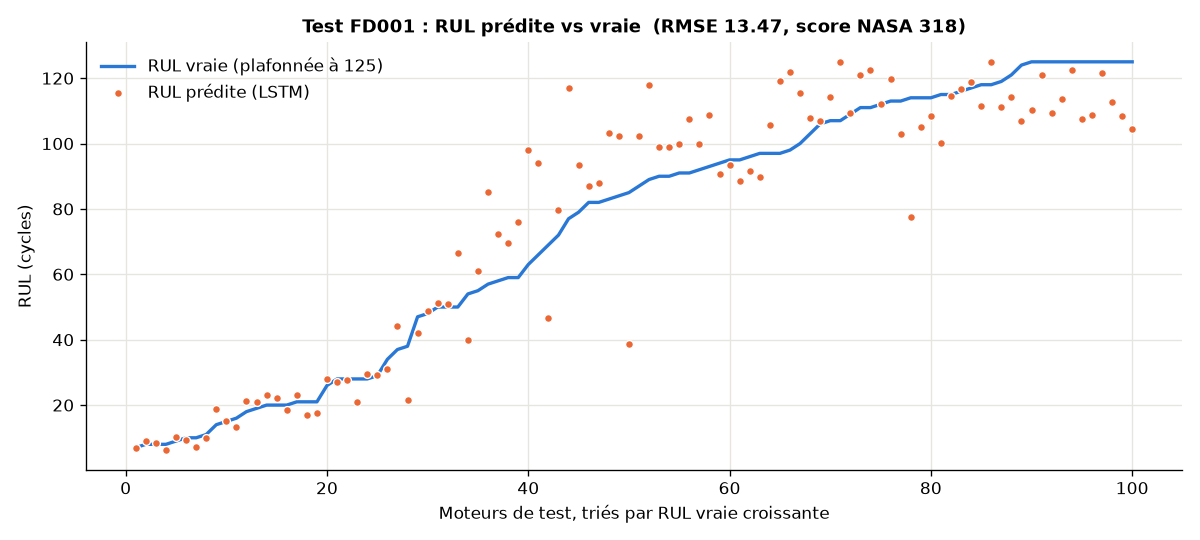
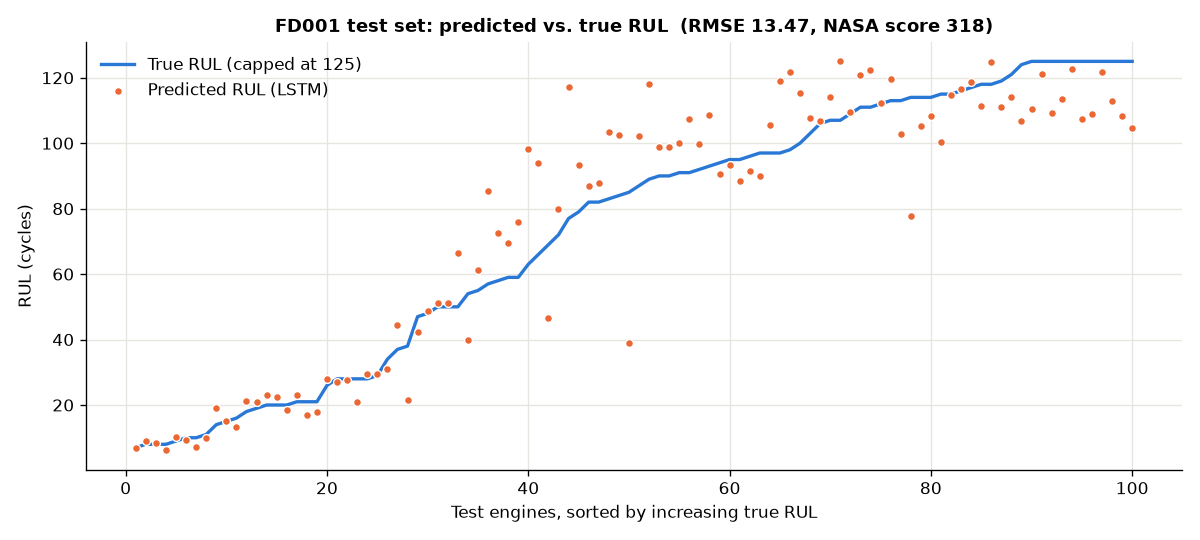
feat(dashboard): English UI and regenerated visuals

diff --git a/src/dashboard/app.py b/src/dashboard/app.py
@@ -29,16 +29,16 @@ ACCENT = "#2DD4BF"
 
 # Seuils de risque (en cycles restants) et couleurs associées, utilisés partout
 CRITICAL_RUL, ALERT_RUL = 30, 60
-STATUS_COLORS = {"Critique": "#EF4444", "Alerte": "#F59E0B", "Sain": "#10B981"}
+STATUS_COLORS = {"Critical": "#EF4444", "Warning": "#F59E0B", "Healthy": "#10B981"}
 
 # Capteurs affichés dans la vue moteur (nom C-MAPSS + grandeur physique)
 SENSOR_LABELS = {
-    "sensor_2": "T24 · temp. sortie LPC (°R)",
-    "sensor_4": "T50 · temp. sortie LPT (°R)",
-    "sensor_7": "P30 · pression sortie HPC (psia)",
-    "sensor_11": "Ps30 · pression statique HPC (psia)",
-    "sensor_12": "phi · débit carburant / Ps30",
-    "sensor_15": "BPR · taux de dilution",
+    "sensor_2": "T24 · LPC outlet temp. (°R)",
+    "sensor_4": "T50 · LPT outlet temp. (°R)",
+    "sensor_7": "P30 · HPC outlet pressure (psia)",
+    "sensor_11": "Ps30 · HPC static pressure (psia)",
+    "sensor_12": "phi · fuel flow / Ps30",
+    "sensor_15": "BPR · bypass ratio",
 }
 
 CSS = f"""
@@ -142,10 +142,10 @@ table.fleet tr:hover td {{ background: #20273A; }}
 def risk_status(rul: float) -> str:
     """Statut de risque à partir de la RUL prédite (seuils exclusifs)."""
     if rul < CRITICAL_RUL:
-        return "Critique"
+        return "Critical"
     if rul < ALERT_RUL:
-        return "Alerte"
-    return "Sain"
+        return "Warning"
+    return "Healthy"
 
 
 @st.cache_resource
@@ -210,29 +210,29 @@ def render_topbar(fleet: pd.DataFrame) -> None:
     """Barre d'en-tête : titre à gauche, pastille d'état de la flotte à droite."""
     counts = fleet["status"].value_counts()
     items = [
-        ("#64748B", f"{len(fleet)} moteurs"),
-        (STATUS_COLORS["Critique"], f"{counts.get('Critique', 0)} critiques"),
-        (STATUS_COLORS["Alerte"], f"{counts.get('Alerte', 0)} en alerte"),
+        ("#64748B", f"{len(fleet)} engines"),
+        (STATUS_COLORS["Critical"], f"{counts.get('Critical', 0)} critical"),
+        (STATUS_COLORS["Warning"], f"{counts.get('Warning', 0)} warning"),
     ]
     # Le point coloré porte le statut, le texte reste dans la couleur du texte (lisibilité)
     pill = '<span class="sep">·</span>'.join(
         f'<span class="item"><span class="dot" style="--c:{c}"></span>{label}</span>' for c, label in items
     )
     st.markdown(
-        '<div class="topbar"><div class="topbar-title">Supervision prédictive de la flotte</div>'
+        '<div class="topbar"><div class="topbar-title">Predictive fleet monitoring</div>'
         f'<div class="status-pill">{pill}</div></div>',
         unsafe_allow_html=True,
     )
 
 
 def render_kpis(fleet: pd.DataFrame) -> None:
-    n_crit = int((fleet["status"] == "Critique").sum())
-    n_alert = int((fleet["status"] == "Alerte").sum())
+    n_crit = int((fleet["status"] == "Critical").sum())
+    n_alert = int((fleet["status"] == "Warning").sum())
     cards = [
-        kpi_card("Moteurs critiques", str(n_crit), f"RUL prédite &lt; {CRITICAL_RUL} cycles", STATUS_COLORS["Critique"]),
-        kpi_card("Moteurs en alerte", str(n_alert), f"RUL entre {CRITICAL_RUL} et {ALERT_RUL} cycles", STATUS_COLORS["Alerte"]),
-        kpi_card("RUL moyenne prédite", f"{fleet['rul_pred'].mean():.0f}", "sur l'ensemble de la flotte", ACCENT, "cycles"),
-        kpi_card("Moteurs suivis", str(len(fleet)), "jeu de test NASA C-MAPSS FD001", "#64748B"),
+        kpi_card("Critical engines", str(n_crit), f"Predicted RUL &lt; {CRITICAL_RUL} cycles", STATUS_COLORS["Critical"]),
+        kpi_card("Warning engines", str(n_alert), f"RUL between {CRITICAL_RUL} and {ALERT_RUL} cycles", STATUS_COLORS["Warning"]),
+        kpi_card("Mean predicted RUL", f"{fleet['rul_pred'].mean():.0f}", "across the whole fleet", ACCENT, "cycles"),
+        kpi_card("Engines monitored", str(len(fleet)), "NASA C-MAPSS FD001 test set", "#64748B"),
     ]
     for col, card in zip(st.columns(4, gap="medium"), cards):
         col.markdown(card, unsafe_allow_html=True)
@@ -241,41 +241,42 @@ def render_kpis(fleet: pd.DataFrame) -> None:
 def render_fleet(fleet: pd.DataFrame) -> None:
     # Graphique : une barre par moteur, triée par RUL croissante, couleur = statut
     with st.container(key="card_fleet_chart"):
-        section("RUL prédite par moteur", "Triés du plus urgent au plus sain · survolez une barre pour le détail")
+        section("Predicted RUL per engine", "Sorted from most urgent to healthiest · hover over a bar for details")
         fig = go.Figure(go.Bar(
-            x=[f"M{u:03d}" for u in fleet["unit"]],
+            x=[f"#{u:03d}" for u in fleet["unit"]],
             y=fleet["rul_pred"],
             marker=dict(color=fleet["status"].map(STATUS_COLORS), line=dict(width=0)),
             customdata=fleet[["status", "cycles"]],
-            hovertemplate="<b>Moteur %{x}</b><br>RUL prédite : %{y:.0f} cycles"
-                          "<br>Statut : %{customdata[0]}<br>Cycles observés : %{customdata[1]}<extra></extra>",
+            hovertemplate="<b>Engine %{x}</b><br>Predicted RUL: %{y:.0f} cycles"
+                          "<br>Status: %{customdata[0]}<br>Observed cycles: %{customdata[1]}<extra></extra>",
         ))
         # Lignes de seuil
-        for y, status in ((CRITICAL_RUL, "Critique"), (ALERT_RUL, "Alerte")):
+        for y, status in ((CRITICAL_RUL, "Critical"), (ALERT_RUL, "Warning")):
             fig.add_hline(y=y, line=dict(color=STATUS_COLORS[status], width=1, dash="dot"),
-                          annotation_text=f"seuil {status.lower()} · {y}", annotation_position="top left",
+                          annotation_text=f"{status.lower()} threshold · {y}", annotation_position="top left",
                           annotation_font=dict(color=STATUS_COLORS[status], size=11))
         fig.update_layout(bargap=0.25, barcornerradius=3, showlegend=False)
-        fig.update_xaxes(showgrid=False, showticklabels=False, title=None)
-        fig.update_yaxes(title=dict(text="RUL prédite (cycles)", font=dict(color=MUTED)), range=[0, 130])
+        # Axe forcé en catégories : sinon Plotly lit "#081" comme le nombre 81 et perd le tri par RUL
+        fig.update_xaxes(type="category", showgrid=False, showticklabels=False, title=None)
+        fig.update_yaxes(title=dict(text="Predicted RUL (cycles)", font=dict(color=MUTED)), range=[0, 130])
         st.plotly_chart(style_fig(fig, 360), use_container_width=True, config={"displayModeBar": False})
 
     # Tableau : trié par risque (RUL croissante), badge de statut et mini-barre de RUL
     with st.container(key="card_fleet_table"):
-        section("Registre de la flotte", "Classement par risque · la RUL réelle sert de référence pour juger le modèle")
+        section("Fleet registry", "Ranked by risk · true RUL shown as a reference to assess the model")
         rows = []
         for r in fleet.itertuples():
             color = STATUS_COLORS[r.status]
             pct = r.rul_pred / 125 * 100
             rows.append(
-                f"<tr><td><b>Moteur {r.unit:03d}</b></td><td>{badge(r.status)}</td>"
+                f"<tr><td><b>Engine {r.unit:03d}</b></td><td>{badge(r.status)}</td>"
                 f'<td><div class="rulbar"><span>{r.rul_pred:.0f}</span><div class="rulbar-track">'
                 f'<div class="rulbar-fill" style="width:{pct:.0f}%;--c:{color}"></div></div></div></td>'
                 f"<td>{r.cycles}</td><td>{r.rul_true:.0f}</td><td>{round(r.rul_pred - r.rul_true):+d}</td></tr>"
             )
         table = (
-            '<div class="table-wrap"><table class="fleet"><thead><tr><th>Moteur</th><th>Statut</th>'
-            "<th>RUL prédite</th><th>Cycles observés</th><th>RUL réelle</th><th>Écart</th></tr></thead>"
+            '<div class="table-wrap"><table class="fleet"><thead><tr><th>Engine</th><th>Status</th>'
+            "<th>Predicted RUL</th><th>Observed cycles</th><th>True RUL</th><th>Error</th></tr></thead>"
             f"<tbody>{''.join(rows)}</tbody></table></div>"
         )
         st.markdown(table, unsafe_allow_html=True)
@@ -285,16 +286,16 @@ def render_engine(test: pd.DataFrame, fleet: pd.DataFrame) -> None:
     # Sélecteur : moteurs classés par urgence, le plus critique par défaut
     by_unit = fleet.set_index("unit")
     unit = st.selectbox(
-        "Moteur",
+        "Engine",
         fleet["unit"].tolist(),
-        format_func=lambda u: f"Moteur {u:03d} · {by_unit.loc[u, 'status']} · RUL {by_unit.loc[u, 'rul_pred']:.0f} cycles",
+        format_func=lambda u: f"Engine {u:03d} · {by_unit.loc[u, 'status']} · RUL {by_unit.loc[u, 'rul_pred']:.0f} cycles",
     )
     row = by_unit.loc[unit]
 
     left, right = st.columns([1, 2.2], gap="medium")
 
     with left, st.container(key="card_gauge"):
-        section("RUL prédite", "Dernière fenêtre de 30 cycles")
+        section("Predicted RUL", "Last 30-cycle window")
         gauge = go.Figure(go.Indicator(
             # La valeur est affichée en HTML sous la jauge (Plotly la superpose à l'arc)
             mode="gauge",
@@ -321,16 +322,16 @@ def render_engine(test: pd.DataFrame, fleet: pd.DataFrame) -> None:
             f'<div class="gauge-value">{row["rul_pred"]:.0f}<span>/125 cycles</span></div>'
             f'<div style="text-align:center;margin:0.4rem 0 0.75rem 0">{badge(row["status"])}</div>'
             '<div class="info-grid">'
-            f'<div class="info"><div class="info-label">Cycles observés</div><div class="info-value">{row["cycles"]}</div></div>'
-            f'<div class="info"><div class="info-label">RUL réelle</div><div class="info-value">{row["rul_true"]:.0f}</div></div>'
-            f'<div class="info"><div class="info-label">Écart modèle</div><div class="info-value">{round(row["rul_pred"] - row["rul_true"]):+d}</div></div>'
-            f'<div class="info"><div class="info-label">Rang de risque</div><div class="info-value">{fleet.index[fleet["unit"] == unit][0] + 1} / {len(fleet)}</div></div>'
+            f'<div class="info"><div class="info-label">Observed cycles</div><div class="info-value">{row["cycles"]}</div></div>'
+            f'<div class="info"><div class="info-label">True RUL</div><div class="info-value">{row["rul_true"]:.0f}</div></div>'
+            f'<div class="info"><div class="info-label">Model error</div><div class="info-value">{round(row["rul_pred"] - row["rul_true"]):+d}</div></div>'
+            f'<div class="info"><div class="info-label">Risk rank</div><div class="info-value">{fleet.index[fleet["unit"] == unit][0] + 1} / {len(fleet)}</div></div>'
             "</div>",
             unsafe_allow_html=True,
         )
 
     with right, st.container(key="card_sensors"):
-        section("Capteurs principaux", "Valeurs brutes au fil des cycles · zone grisée = fenêtre utilisée par le modèle")
+        section("Key sensors", "Raw values over cycles · shaded area = window used by the model")
         d = test[test["unit_number"] == unit].sort_values("time_in_cycles")
         last_cycle = d["time_in_cycles"].max()
         fig = make_subplots(rows=3, cols=2, subplot_titles=list(SENSOR_LABELS.values()),
@@ -353,22 +354,22 @@ def render_sidebar(fleet: pd.DataFrame, cfg: dict) -> str:
     with st.sidebar:
         st.markdown(
             '<div class="brand"><div class="brand-title">PdM <span>Copilot</span></div>'
-            '<div class="brand-sub">Maintenance prédictive · NASA C-MAPSS</div></div>',
+            '<div class="brand-sub">Predictive maintenance · NASA C-MAPSS</div></div>',
             unsafe_allow_html=True,
         )
-        view = st.radio("Navigation", ["Vue Flotte", "Vue Moteur"], label_visibility="collapsed")
+        view = st.radio("Navigation", ["Fleet View", "Engine View"], label_visibility="collapsed")
 
         rmse = ((fleet["rul_pred"] - fleet["rul_true"]) ** 2).mean() ** 0.5
         st.markdown(
-            '<div class="side-label">Modèle</div>'
+            '<div class="side-label">Model</div>'
             '<div class="side-row"><span>Architecture</span><span>LSTM</span></div>'
-            f'<div class="side-row"><span>Fenêtre</span><span>{cfg["window_size"]} cycles</span></div>'
-            f'<div class="side-row"><span>Plafond RUL</span><span>{cfg["cap"]} cycles</span></div>'
-            f'<div class="side-row"><span>RMSE test</span><span>{rmse:.2f}</span></div>'
-            '<div class="side-label">Seuils de risque</div>'
-            f'<div class="side-row">{badge("Critique")}<span>&lt; {CRITICAL_RUL}</span></div>'
-            f'<div class="side-row">{badge("Alerte")}<span>{CRITICAL_RUL} – {ALERT_RUL}</span></div>'
-            f'<div class="side-row">{badge("Sain")}<span>≥ {ALERT_RUL}</span></div>',
+            f'<div class="side-row"><span>Window</span><span>{cfg["window_size"]} cycles</span></div>'
+            f'<div class="side-row"><span>RUL cap</span><span>{cfg["cap"]} cycles</span></div>'
+            f'<div class="side-row"><span>Test RMSE</span><span>{rmse:.2f}</span></div>'
+            '<div class="side-label">Risk thresholds</div>'
+            f'<div class="side-row">{badge("Critical")}<span>&lt; {CRITICAL_RUL}</span></div>'
+            f'<div class="side-row">{badge("Warning")}<span>{CRITICAL_RUL} – {ALERT_RUL}</span></div>'
+            f'<div class="side-row">{badge("Healthy")}<span>≥ {ALERT_RUL}</span></div>',
             unsafe_allow_html=True,
         )
     return view
@@ -383,8 +384,8 @@ def main() -> None:
     view = render_sidebar(fleet, cfg)
 
     subtitles = {
-        "Vue Flotte": "État de santé de la flotte · RUL prédite par le LSTM sur la dernière fenêtre de chaque moteur",
-        "Vue Moteur": "Diagnostic d'un moteur · RUL prédite et évolution des capteurs",
+        "Fleet View": "Fleet health overview · RUL predicted by the LSTM from each engine's last window",
+        "Engine View": "Single-engine diagnosis · predicted RUL and sensor trends",
     }
     # Tout le contenu principal dans un seul conteneur : l'écart entre cartes y est fixé par --gap
     with st.container(key="page"):
@@ -393,7 +394,7 @@ def main() -> None:
                     unsafe_allow_html=True)
         render_kpis(fleet)
 
-        if view == "Vue Flotte":
+        if view == "Fleet View":
             render_fleet(fleet)
         else:
             render_engine(test, fleet)

diff --git a/src/models/evaluate.py b/src/models/evaluate.py
@@ -77,13 +77,13 @@ def plot_predictions(
     ax.set_axisbelow(True)
 
     # Vraie RUL en trait, prédiction en points (palette catégorielle, ordre fixe)
-    ax.plot(x, y_true[order], color="#2a78d6", linewidth=2, label="RUL vraie (plafonnée à 125)")
+    ax.plot(x, y_true[order], color="#2a78d6", linewidth=2, label="True RUL (capped at 125)")
     ax.scatter(x, y_pred[order], color="#eb6834", s=22, edgecolors="white", linewidths=0.8,
-               zorder=3, label="RUL prédite (LSTM)")
+               zorder=3, label="Predicted RUL (LSTM)")
 
-    ax.set_title(f"Test {subset} : RUL prédite vs vraie  (RMSE {score_rmse:.2f}, score NASA {score_nasa:.0f})",
+    ax.set_title(f"{subset} test set: predicted vs. true RUL  (RMSE {score_rmse:.2f}, NASA score {score_nasa:.0f})",
                  fontsize=11, fontweight="bold")
-    ax.set_xlabel("Moteurs de test, triés par RUL vraie croissante")
+    ax.set_xlabel("Test engines, sorted by increasing true RUL")
     ax.set_ylabel("RUL (cycles)")
     ax.legend(frameon=False, loc="upper left")
     fig.tight_layout()

diff --git a/CHANGELOG.md b/CHANGELOG.md
@@ -49,6 +49,15 @@ Toutes les évolutions notables du projet sont consignées ici.
   - URL de clonage GitHub.
 - `LICENSE` : licence MIT (Atef Ben Hadef).
 - `README.md` traduit en anglais, avec la même structure : badges, GIF, diagramme Mermaid, captures, résultats, « Key Engineering Decisions ».
+- Dashboard traduit en anglais (textes affichés seulement ; design, couleurs et logique inchangés) :
+  - navigation « Fleet View » / « Engine View » ;
+  - statuts Critical / Warning / Healthy ;
+  - KPI, en-tête, jauge, capteurs, « Fleet registry ».
+- Graphique d'évaluation (`evaluate.py`) traduit en anglais.
+- Visuels régénérés en anglais et renommés : `dashboard-fleet.png`, `dashboard-engine.png`, `dashboard-demo.gif`, `eval-fd001.png`.
+
+### Corrigé
+- Graphique de la flotte : axe X forcé en catégories. Plotly lisait les libellés `#081` comme des nombres et perdait le tri par RUL.
 
 ### Constaté
 - FD001 train avec `cap=125` : 8 131 lignes sur 20 631 (39,4 %) sont au plafond.

diff --git a/README.md b/README.md
@@ -40,8 +40,8 @@ The Streamlit dashboard uses a "control room" look. It ranks every engine by ris
 
 <table>
   <tr>
-    <td width="50%"><img src="assets/dashboard-flotte.png" alt="Fleet view"></td>
-    <td width="50%"><img src="assets/dashboard-moteur.png" alt="Engine view"></td>
+    <td width="50%"><img src="assets/dashboard-fleet.png" alt="Fleet view"></td>
+    <td width="50%"><img src="assets/dashboard-engine.png" alt="Engine view"></td>
   </tr>
   <tr>
     <td><b>Fleet view</b>: predicted RUL for all 100 engines, sorted by urgency, with a fleet registry and status badges.</td>
